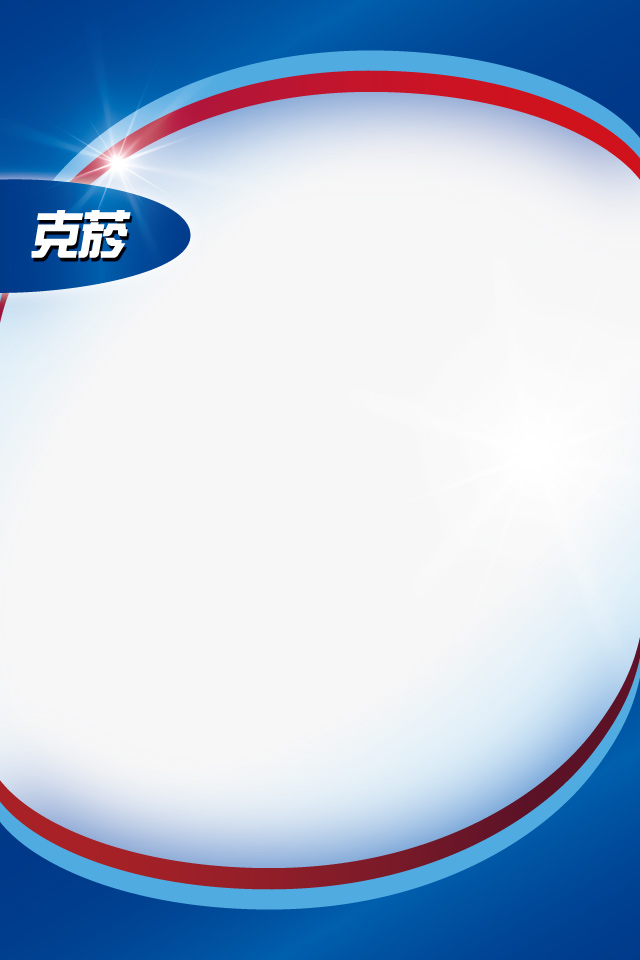
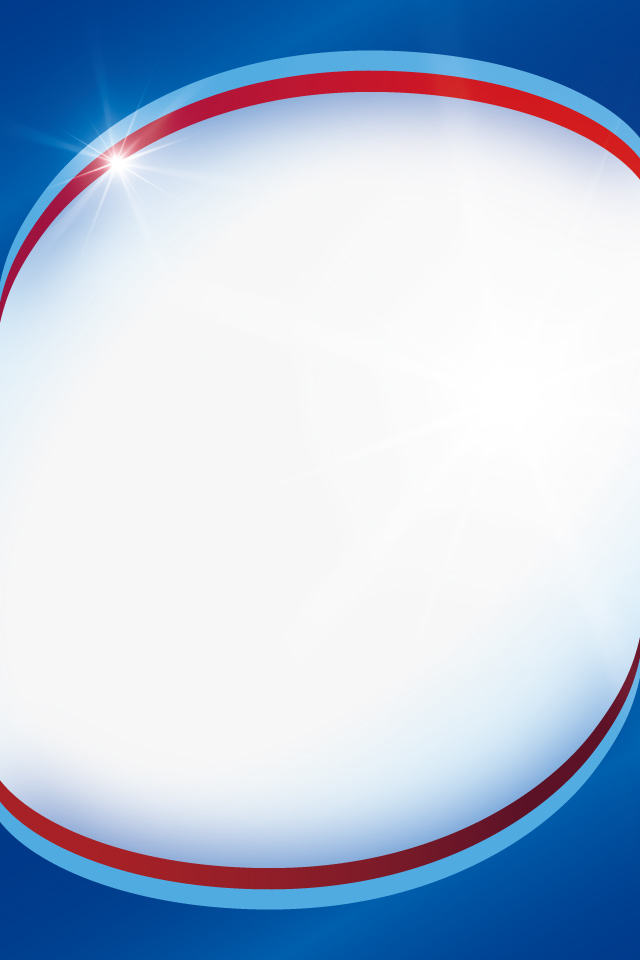
update

Changed region(s): [[0.0, 0.1562, 0.3125, 0.3125], [0.6875, 0.0312, 0.75, 0.0938], [0.9375, 0.125, 0.9688, 0.1562]]

diff --git a/css/default.css b/css/default.css
@@ -3116,6 +3116,15 @@ html, body {
   height: 100%;
 }
 
+.logo2 {
+  width: 259px;
+  height: 159px;
+  background-image: url("../images/logo2.png");
+  position: absolute;
+  top: 200px;
+  left: -40px;
+}
+
 .bigContainer {
   width: 100%;
   height: 100%;
@@ -3185,7 +3194,6 @@ html, body {
   background-size: cover;
   background-position: 50% 50%;
   background-image: url("../images/bg.jpg");
-  text-align: center;
   width: 100%;
   height: 100%;
   position: absolute;
@@ -3193,15 +3201,20 @@ html, body {
   left: 0;
   display: none;
 }
-.bigContainer .container .page:before {
+.bigContainer .container .page:not(.p2) {
+  text-align: center;
+}
+.bigContainer .container .page:not(.p2):before {
   content: "";
   display: inline-block;
   vertical-align: middle;
   height: 100%;
 }
-.bigContainer .container .page .wrap {
+.bigContainer .container .page:not(.p2) .wrap {
   display: inline-block;
   vertical-align: middle;
+}
+.bigContainer .container .page .wrap {
   position: relative;
 }
 .bigContainer .container .page .wrap .content {
@@ -3279,52 +3292,52 @@ html, body {
 }
 .bigContainer .container .p2 .wrap > .content:nth-child(1) {
   width: 505px;
-  height: 579px;
+  height: 589px;
   background-image: url("../images/p2.png");
 }
 .bigContainer .container .p2 .wrap > .content:nth-child(2) {
   width: 505px;
-  height: 579px;
+  height: 589px;
   background-image: url("../images/p2.png");
 }
 .bigContainer .container .p2 .wrap > .content:nth-child(3) {
   width: 505px;
-  height: 579px;
+  height: 589px;
   background-image: url("../images/p2.png");
 }
 .bigContainer .container .p2 .wrap > .content:nth-child(4) {
   width: 505px;
-  height: 579px;
+  height: 589px;
   background-image: url("../images/p2.png");
 }
 .bigContainer .container .p2 .wrap > .content:nth-child(5) {
   width: 505px;
-  height: 579px;
+  height: 589px;
   background-image: url("../images/p2.png");
 }
 .bigContainer .container .p2 .wrap > .content:nth-child(6) {
   width: 505px;
-  height: 579px;
+  height: 589px;
   background-image: url("../images/p2.png");
 }
 .bigContainer .container .p2 .wrap > .content:nth-child(7) {
   width: 505px;
-  height: 579px;
+  height: 589px;
   background-image: url("../images/p2.png");
 }
 .bigContainer .container .p2 .wrap > .content:nth-child(8) {
   width: 505px;
-  height: 579px;
+  height: 589px;
   background-image: url("../images/p2.png");
 }
 .bigContainer .container .p2 .wrap > .content:nth-child(9) {
   width: 505px;
-  height: 579px;
+  height: 589px;
   background-image: url("../images/p2.png");
 }
 .bigContainer .container .p2 .wrap > .content:nth-child(10) {
   width: 505px;
-  height: 579px;
+  height: 589px;
   background-image: url("../images/p2.png");
 }
 .bigContainer .container.channel_2 .p2 {
@@ -3596,8 +3609,12 @@ html, body {
   background-image: url("../images/cloz.png");
 }
 
+.bigContainer .container .page.p2 {
+  text-align: center;
+  padding-top: 240px;
+}
 .bigContainer .container .page.p2 .wrap {
-  padding-bottom: 90px;
+  display: inline-block;
 }
 .bigContainer .container .page.p4 .calendarBtn {
   position: absolute;

diff --git a/sass/_index.sass b/sass/_index.sass
@@ -21,7 +21,12 @@ html,body
 	top: 0
 	left: 0
 
- 
+.logo2
+	+bg('logo2.png')
+	position: absolute
+	top: 200px
+	left: -40px
+
 .bigContainer 
 
 	+fullPage
@@ -65,12 +70,15 @@ html,body
 		.page 
 			+coverBg 
 			+bgi('bg.jpg')
-			+divGoVerticalCenter_forMom
 			+fullPage
 			display: none
 			
+			&:not(.p2)
+				+divGoVerticalCenter_forMom
+				.wrap
+					+divGoVerticalCenter_forKid
+					
 			.wrap 	
-				+divGoVerticalCenter_forKid
 				position: relative
 
 				.content 
@@ -160,10 +168,14 @@ html,body
 		
 		.page.p2  
 			// +bgi('bg1.jpg') 
+			text-align: center
+			padding-top: 240px
+
 			.wrap 
-				padding-bottom: 90px
-				// margin-bottom: 300px
-		.page.p4
+				display: inline-block
+				.content
+					// margin: 0 auto
+		.page.p4 
 			.calendarBtn  
 				position: absolute
 				

diff --git a/index.html b/index.html
@@ -84,6 +84,7 @@
       <div class="footer">
         <div class="logo"></div>
       </div>
+      <div class="logo2"></div>
       <div class="pageArr"></div>
       <!-- <div class="logo"></div> -->
       <!-- <div class="copyright"></div> -->
